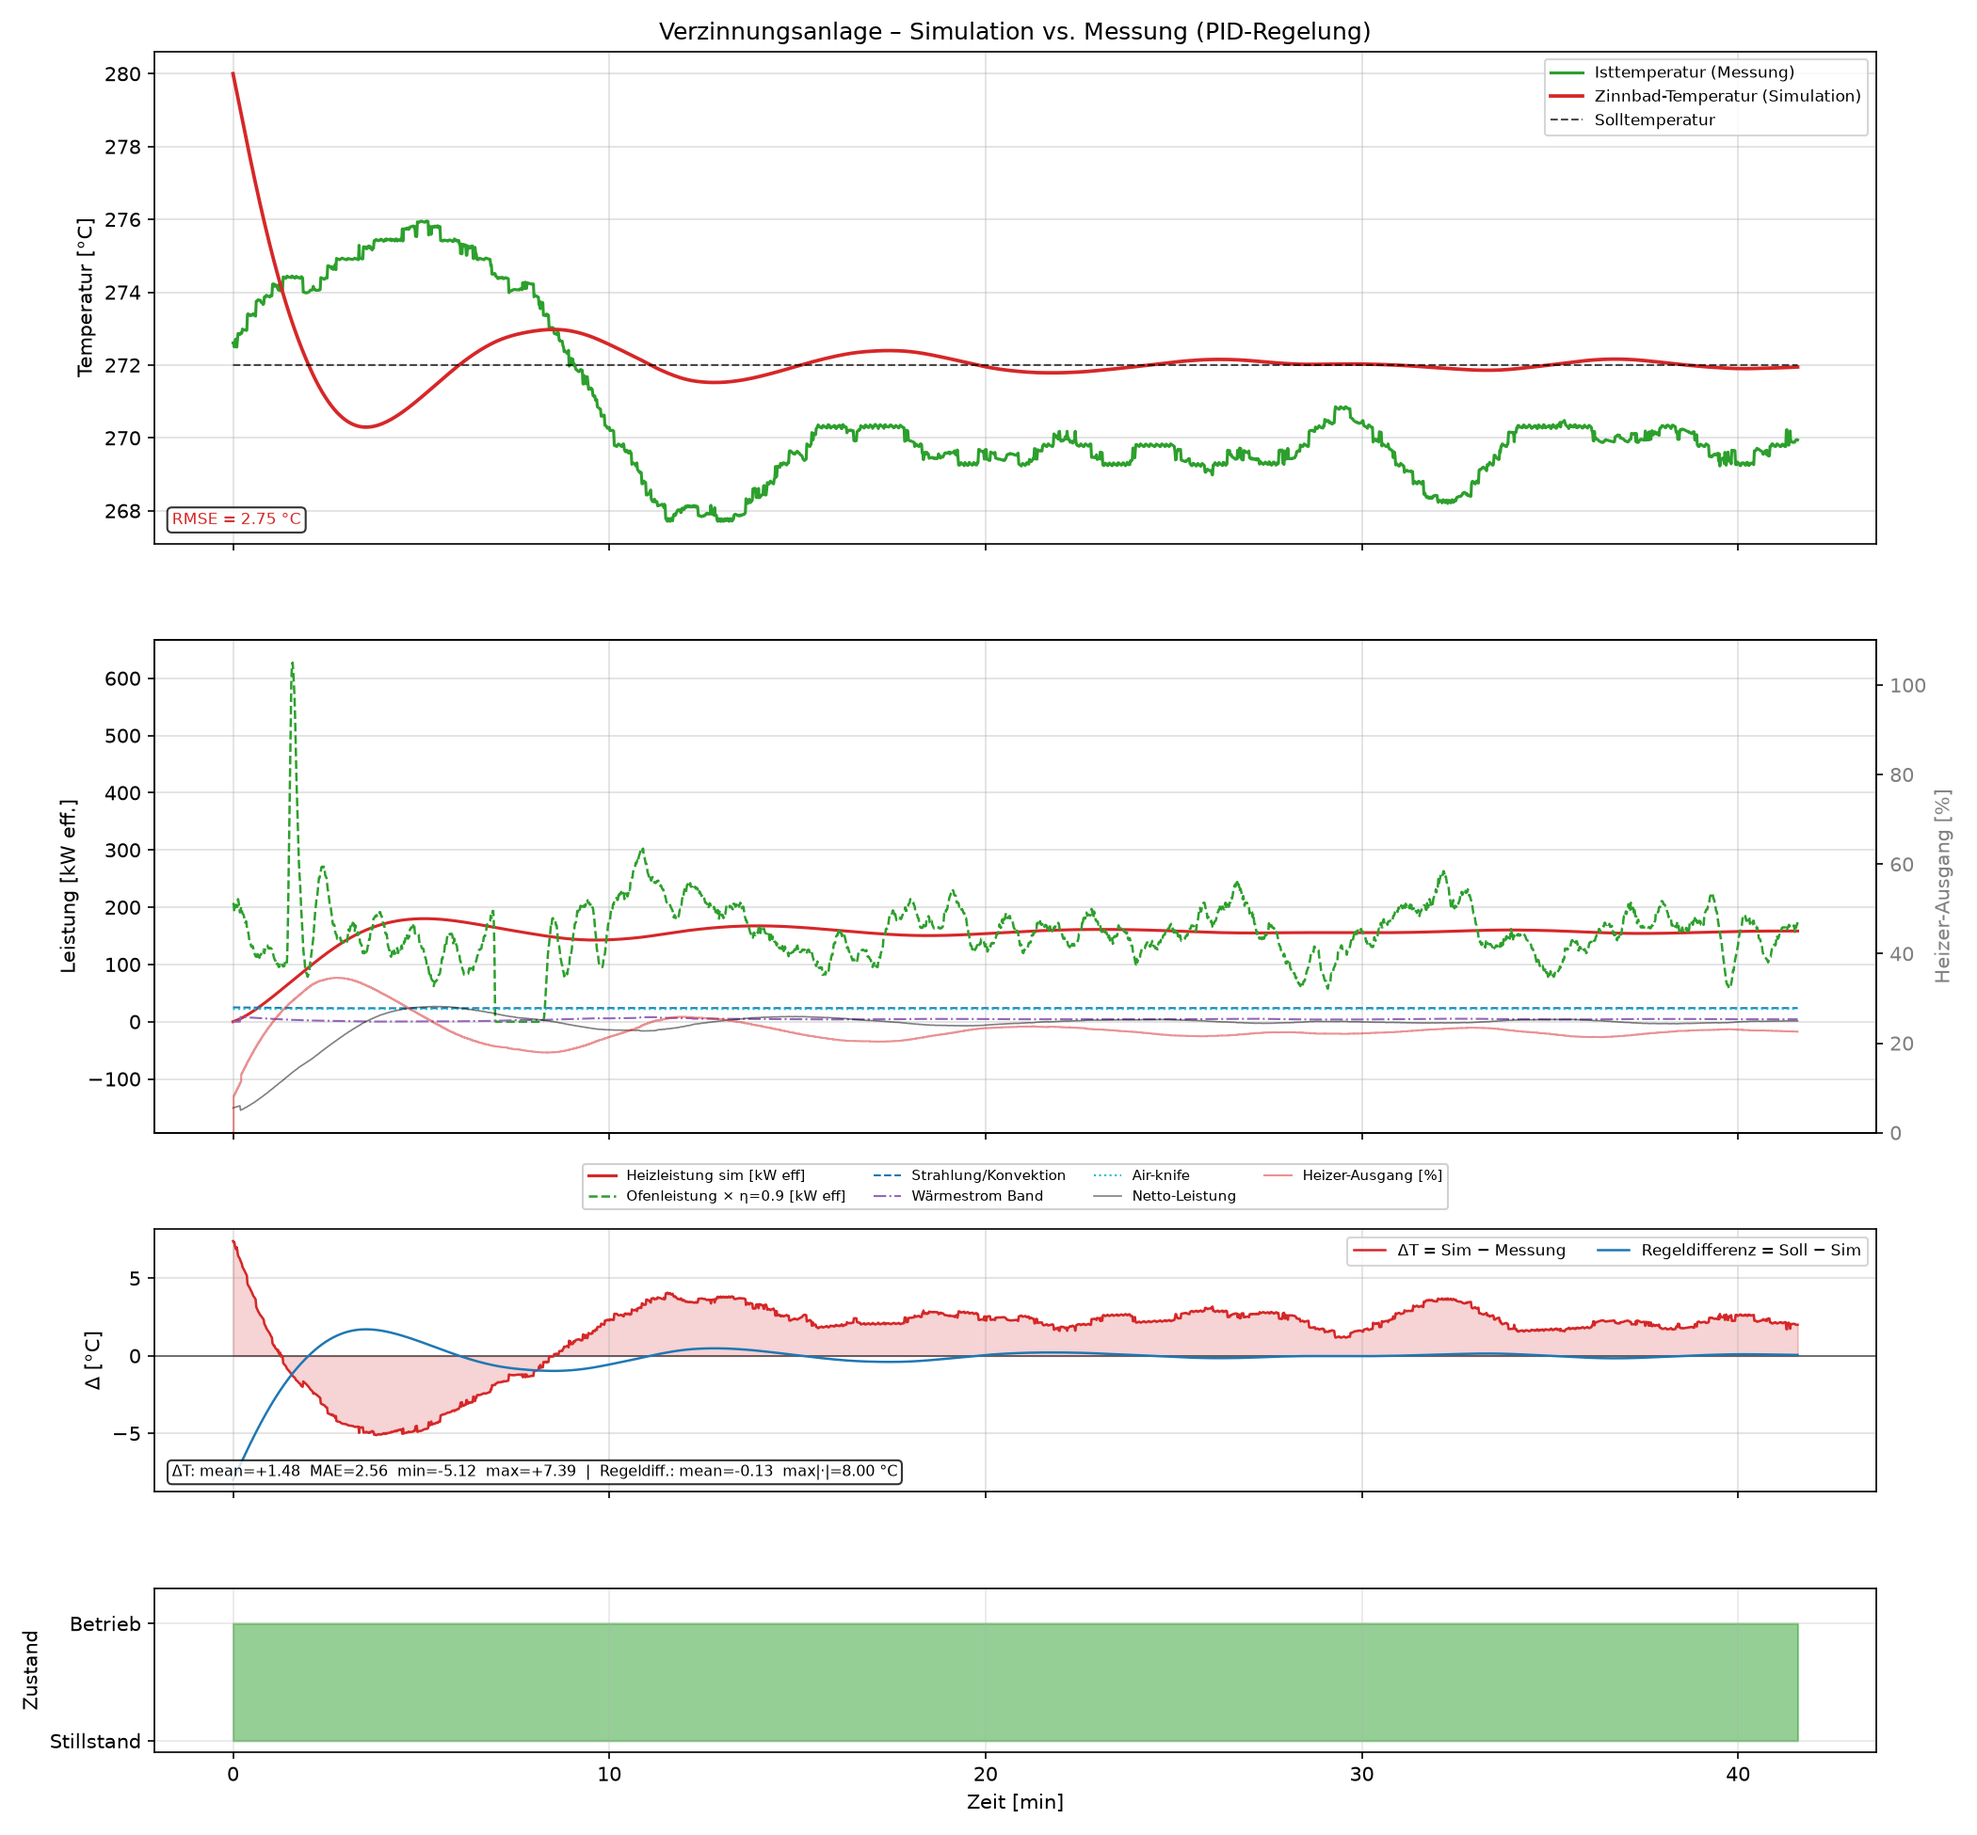
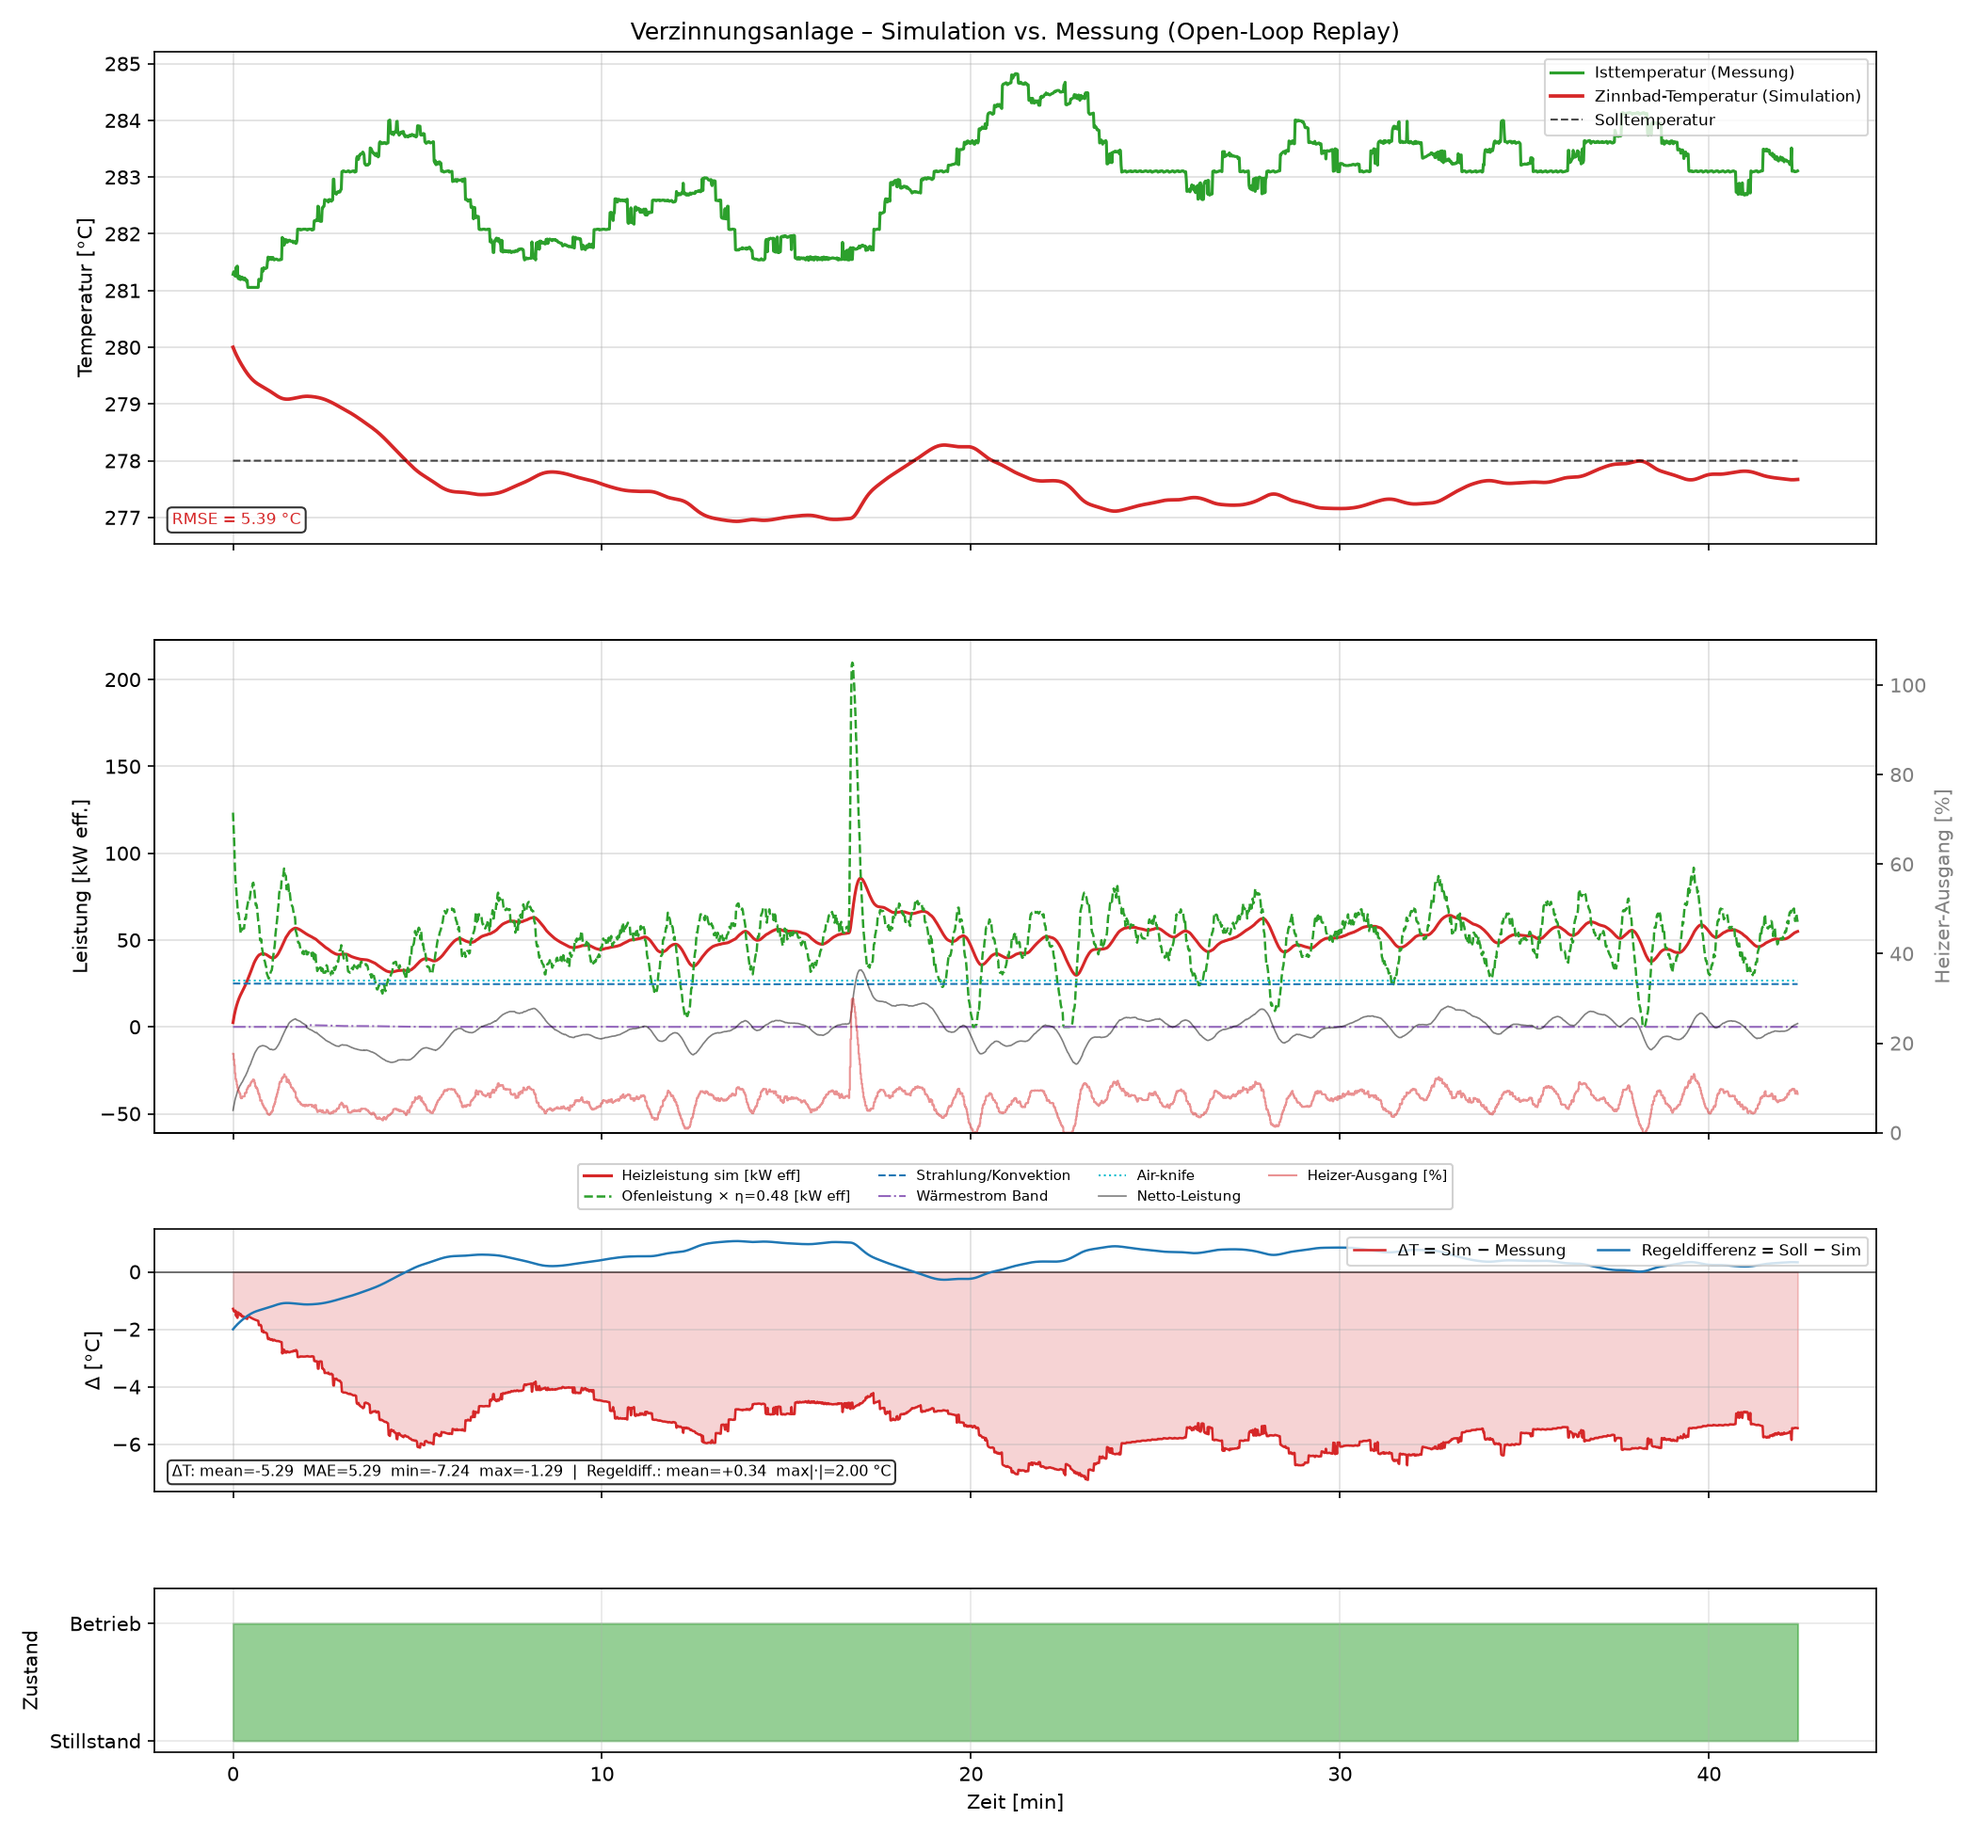
Add PT2 lag option, PID derivative term, extra ibA datasets, tuning
- furnace_model.py: add PT2 second-order lag class (PT1 stays the active
  heater→bath lag in simulation.py)
- pid_controller.py / simulation.py: PID with derivative-on-measurement,
  manual Zeitbereich gains, percent output
- parameters.py: PT2 damping_heating, retuned tau_heating / loss_constant /
  furnace_efficiency / T_bath_init
- add datasets CUSN6_0,4-Ofen2, CUSN8_0,2-Ofen1, KHP102_0,25-Ofen1,
  KHP15_0,6-Ofen1, KHP7025_0,4-Ofen1
- .claude/settings.json: allow read-only git/grep commands

diff --git a/parameters.py b/parameters.py
@@ -67,8 +67,8 @@ T_strip_in = T_ambient     # °C – strip temperature just before entering the 
 # Transport delays (Transportverzögerungen)
 # ---------------------------------------------------------------------------
 # Values match the Simulink with-data subsystem (system_1904):
-delay_heating     = 200.0   # s – inductive heater → bath (Heizleistung Betrieb)
-delay_band        = 12.0   # s – strip-heat calculation → bath (Bandleistung)
+delay_heating     = 120.0   # s – inductive heater → bath (Heizleistung Betrieb)
+delay_band        = 120.0   # s – strip-heat calculation → bath (Bandleistung)
 delay_water_cool  = delay_heating  # s – water cooling → bath
 delay_airknife    = 0.0    # s – air-knife cooling → bath (instantaneous)
 
@@ -79,7 +79,7 @@ delay_airknife    = 0.0    # s – air-knife cooling → bath (instantaneous)
 # ---------------------------------------------------------------------------
 loss_temp_bp    = [  0,  250,  260,  270,  280,  290,  300,  310,  320]  # °C
 loss_power_tbl  = [  0, 20500, 22000, 23500, 25000, 27500, 30000, 33000, 37000]  # W
-loss_constant = 95000.0  # W – constant offset (added to the lookup table output)
+loss_constant = -10000.0  # W – constant offset (added to the lookup table output)
 
 # ---------------------------------------------------------------------------
 # Air-knife cooling  (Kühlleistung Air knife)
@@ -126,7 +126,7 @@ heating_fraction_default = 0.75
 # Calibrated from ibA data: at steady state Ofenleistung ≈ 200 kW maintains
 # ~270 °C with ~50 kW total bath losses  →  η ≈ 50/200 = 0.25
 # Used in open_loop mode:  P_h_eff = oven_power_W * furnace_efficiency
-furnace_efficiency = 0.9
+furnace_efficiency = 0.48
 
 # ---------------------------------------------------------------------------
 # Transport delays – mode-dependent  (from Simulink system_1904.xml)
@@ -134,13 +134,16 @@ furnace_efficiency = 0.9
 delay_heating_stillstand = 150.0  # s – longer delay when strip is not running
 
 # ---------------------------------------------------------------------------
-# Heater → bath thermal lag as a PT1 (first-order lag) element
-# Replaces the pure transport (dead-time) delay on the heating path: the
-# heating power approaches the demand smoothly (τ·dy/dt = u − y) instead of
-# jumping after a fixed dead time. τ is mode-dependent (Betrieb / Stillstand).
+# Heater → bath thermal lag as a PT2 (second-order lag) element
+# Replaces the pure transport (dead-time) delay on the heating path. The
+# heating power eases in smoothly with an S-shaped (zero-initial-slope) response
+#     T²·ÿ + 2·D·T·ẏ + y = u
+# T is mode-dependent (Betrieb / Stillstand); D is the damping ratio.
+#   D > 1 overdamped, D = 1 critically damped (no overshoot), D < 1 oscillatory.
 # ---------------------------------------------------------------------------
-tau_heating            = 150.0    # s – PT1 time constant, Betrieb (strip running)
-tau_heating_stillstand = 150.0   # s – PT1 time constant, Stillstand
+tau_heating            = 50.0   # s – PT2 time constant T, Betrieb (strip running)
+tau_heating_stillstand = 150.0   # s – PT2 time constant T, Stillstand
+damping_heating        = 1.5     # – PT2 damping ratio D (1.0 = critically damped)
 
 # Minimum strip length in oven before full heating is allowed
 strip_length_min        = 50.0    # m  (korrHeizleistung MATLAB function)

diff --git a/furnace_model.py b/furnace_model.py
@@ -142,3 +142,47 @@ class PT1:
             alpha  = math.exp(-self.dt / self.tau)
             self.y = alpha * self.y + (1.0 - alpha) * u
         return self.y
+
+
+# ---------------------------------------------------------------------------
+# PT2 second-order lag  (Verzögerungsglied 2. Ordnung)
+# ---------------------------------------------------------------------------
+class PT2:
+    """
+    Second-order lag element (steady-state gain 1):
+
+        T²·ÿ + 2·D·T·ẏ + y = u     ⇔     Y(s)/U(s) = 1 / (1 + 2·D·T·s + T²·s²)
+
+    where  T = time constant [s],  D = damping ratio (Dämpfung).
+      D > 1 : overdamped     (no overshoot, two real poles)
+      D = 1 : critically damped (fastest non-overshooting response)
+      D < 1 : underdamped    (overshoot / oscillation)
+
+    Compared with a PT1, the step response starts with **zero slope** (S-shape),
+    so the output eases in and out smoothly rather than rising fastest at t=0.
+
+    State (y, v=ẏ) integrated with a semi-implicit (symplectic) Euler step,
+    which is stable for dt small relative to T (here dt ≪ T, easily satisfied):
+        v += dt · (u − y − 2·D·T·v) / T²
+        y += dt · v
+
+    The time constant T can be changed between steps (e.g. Betrieb vs.
+    Stillstand) via the `tau` attribute.
+    """
+
+    def __init__(self, tau_s: float, damping: float, dt: float, init: float = 0.0):
+        self.tau = tau_s
+        self.D   = damping
+        self.dt  = dt
+        self.y   = init
+        self.v   = 0.0          # ẏ (output rate)
+
+    def step(self, u: float) -> float:
+        if self.tau <= 0.0:
+            self.y = u                      # T=0 → no lag, pass through
+            self.v = 0.0
+        else:
+            acc     = (u - self.y - 2.0 * self.D * self.tau * self.v) / (self.tau * self.tau)
+            self.v += self.dt * acc         # update rate first (semi-implicit)
+            self.y += self.dt * self.v      # then position with the new rate
+        return self.y

diff --git a/simulation.py b/simulation.py
@@ -451,8 +451,8 @@ def plot_results_comparison(results: dict,
 if __name__ == '__main__':
     import os
 
-    CSV_FILE    = 'CUSN6_0,4-Ofen1.txt'
-    MODE        = 'pid' # 'pid' or 'open_loop'
+    CSV_FILE    = 'CUSN8_0,2-Ofen1.txt'
+    MODE        = 'open_loop' # 'pid' or 'open_loop'
     DT_SECONDS  = 1
     T_BATH_INIT = p.T_bath_init   # initial bath temperature from parameters.py
                                   # (set to None to start from the first CSV value)
